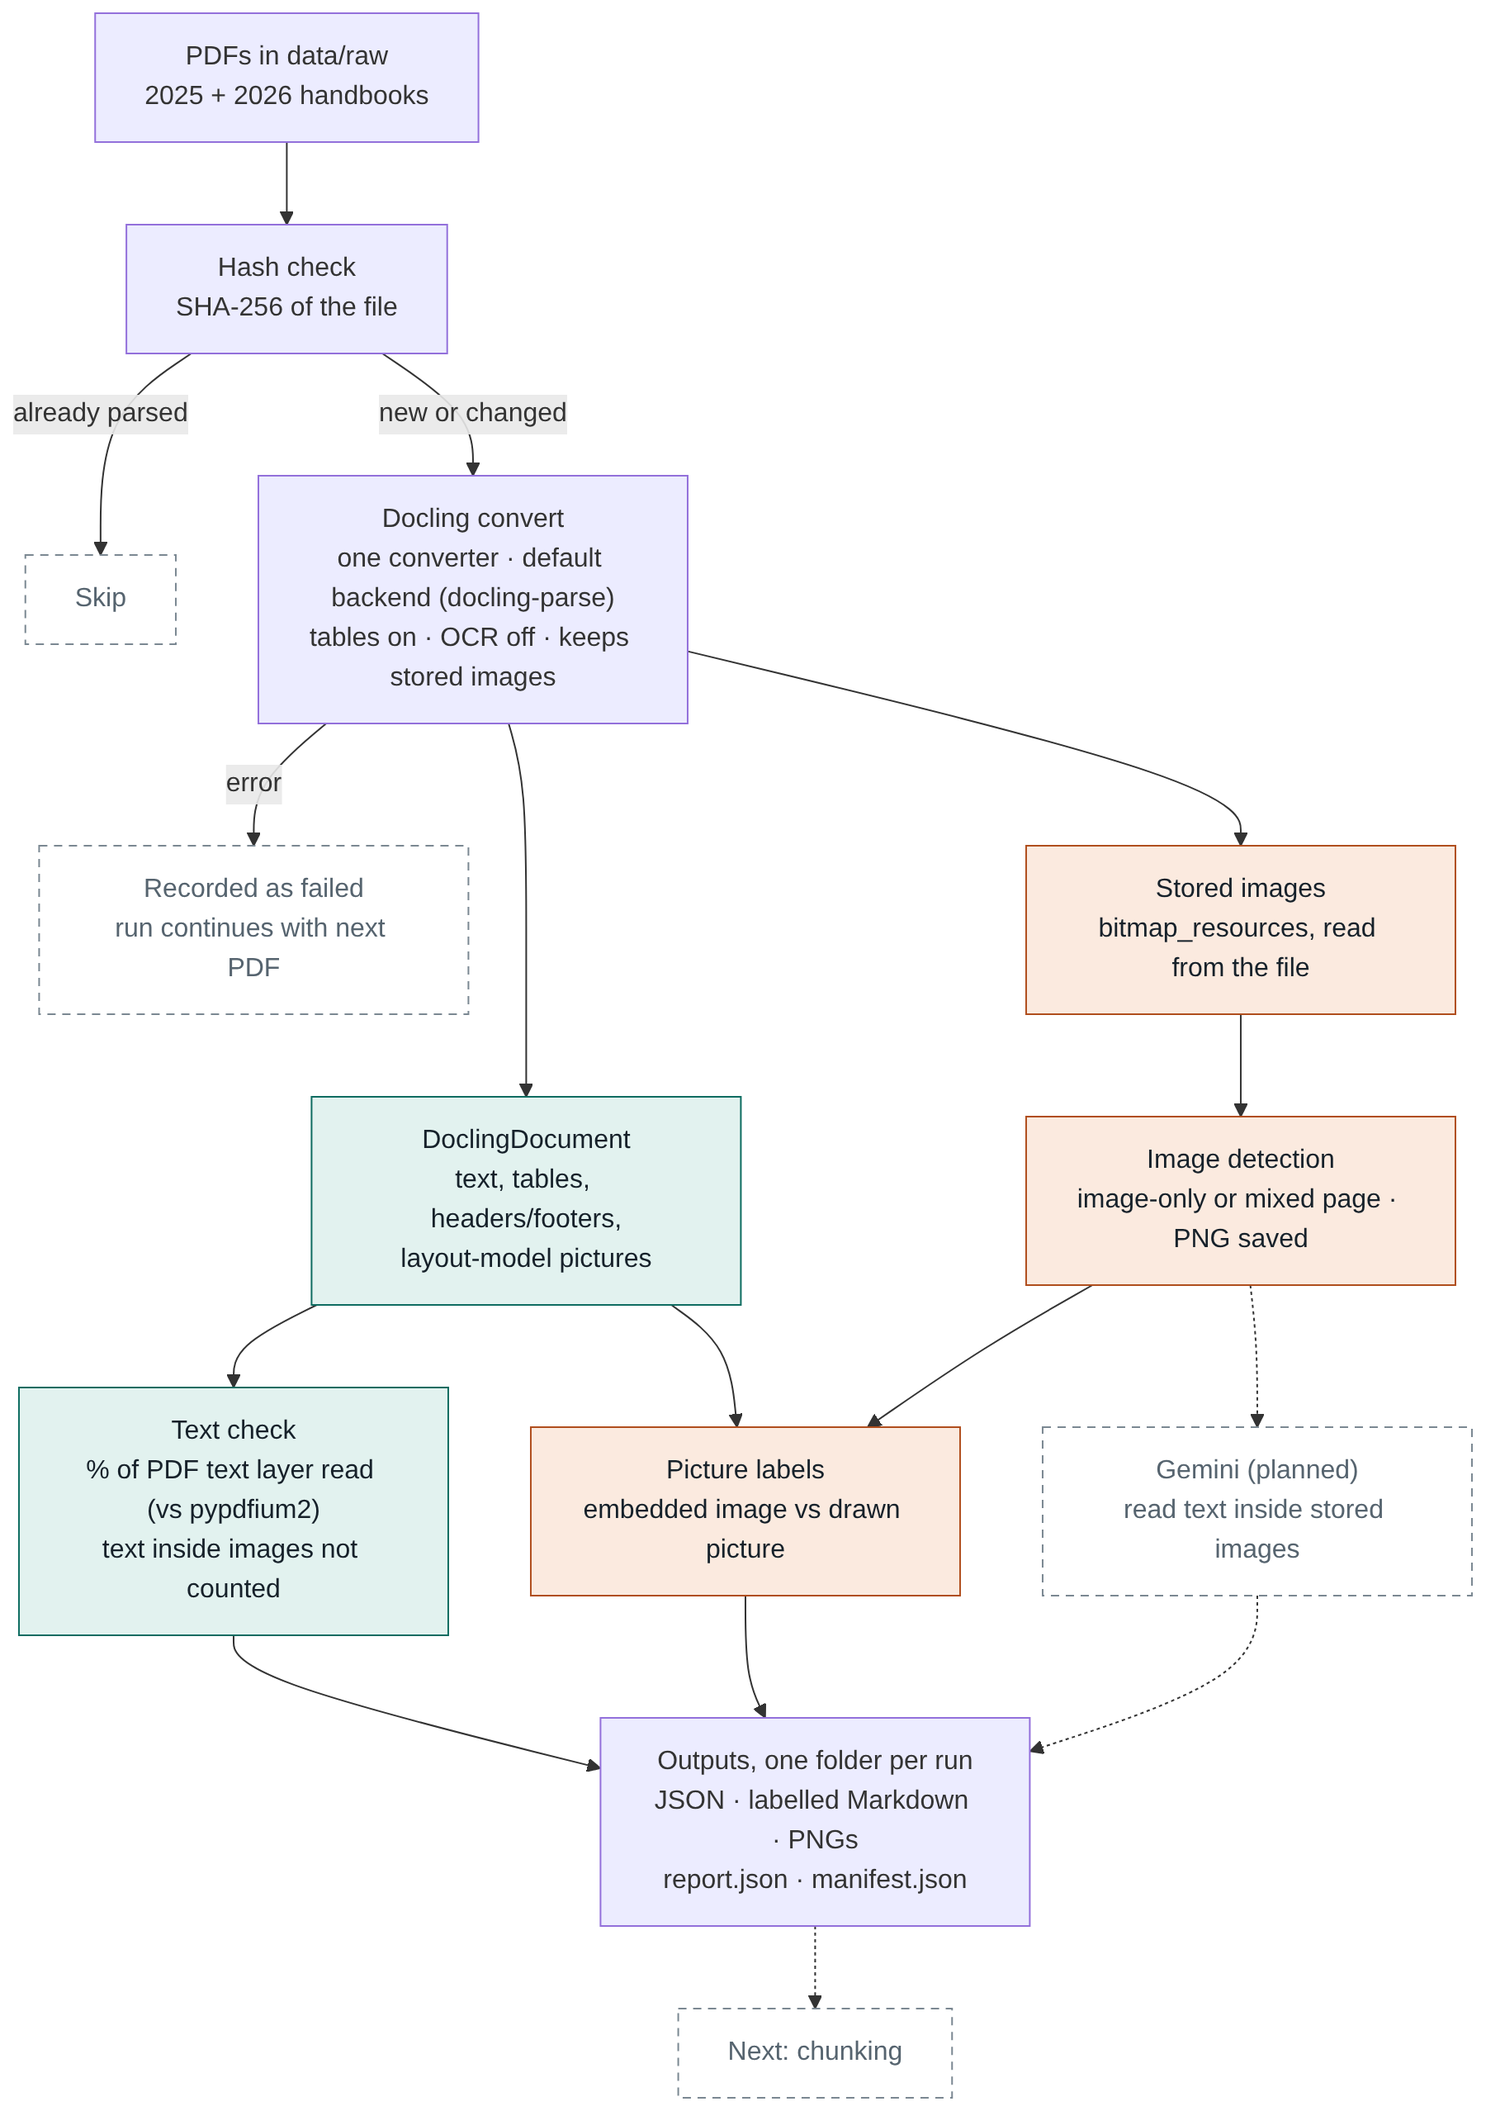
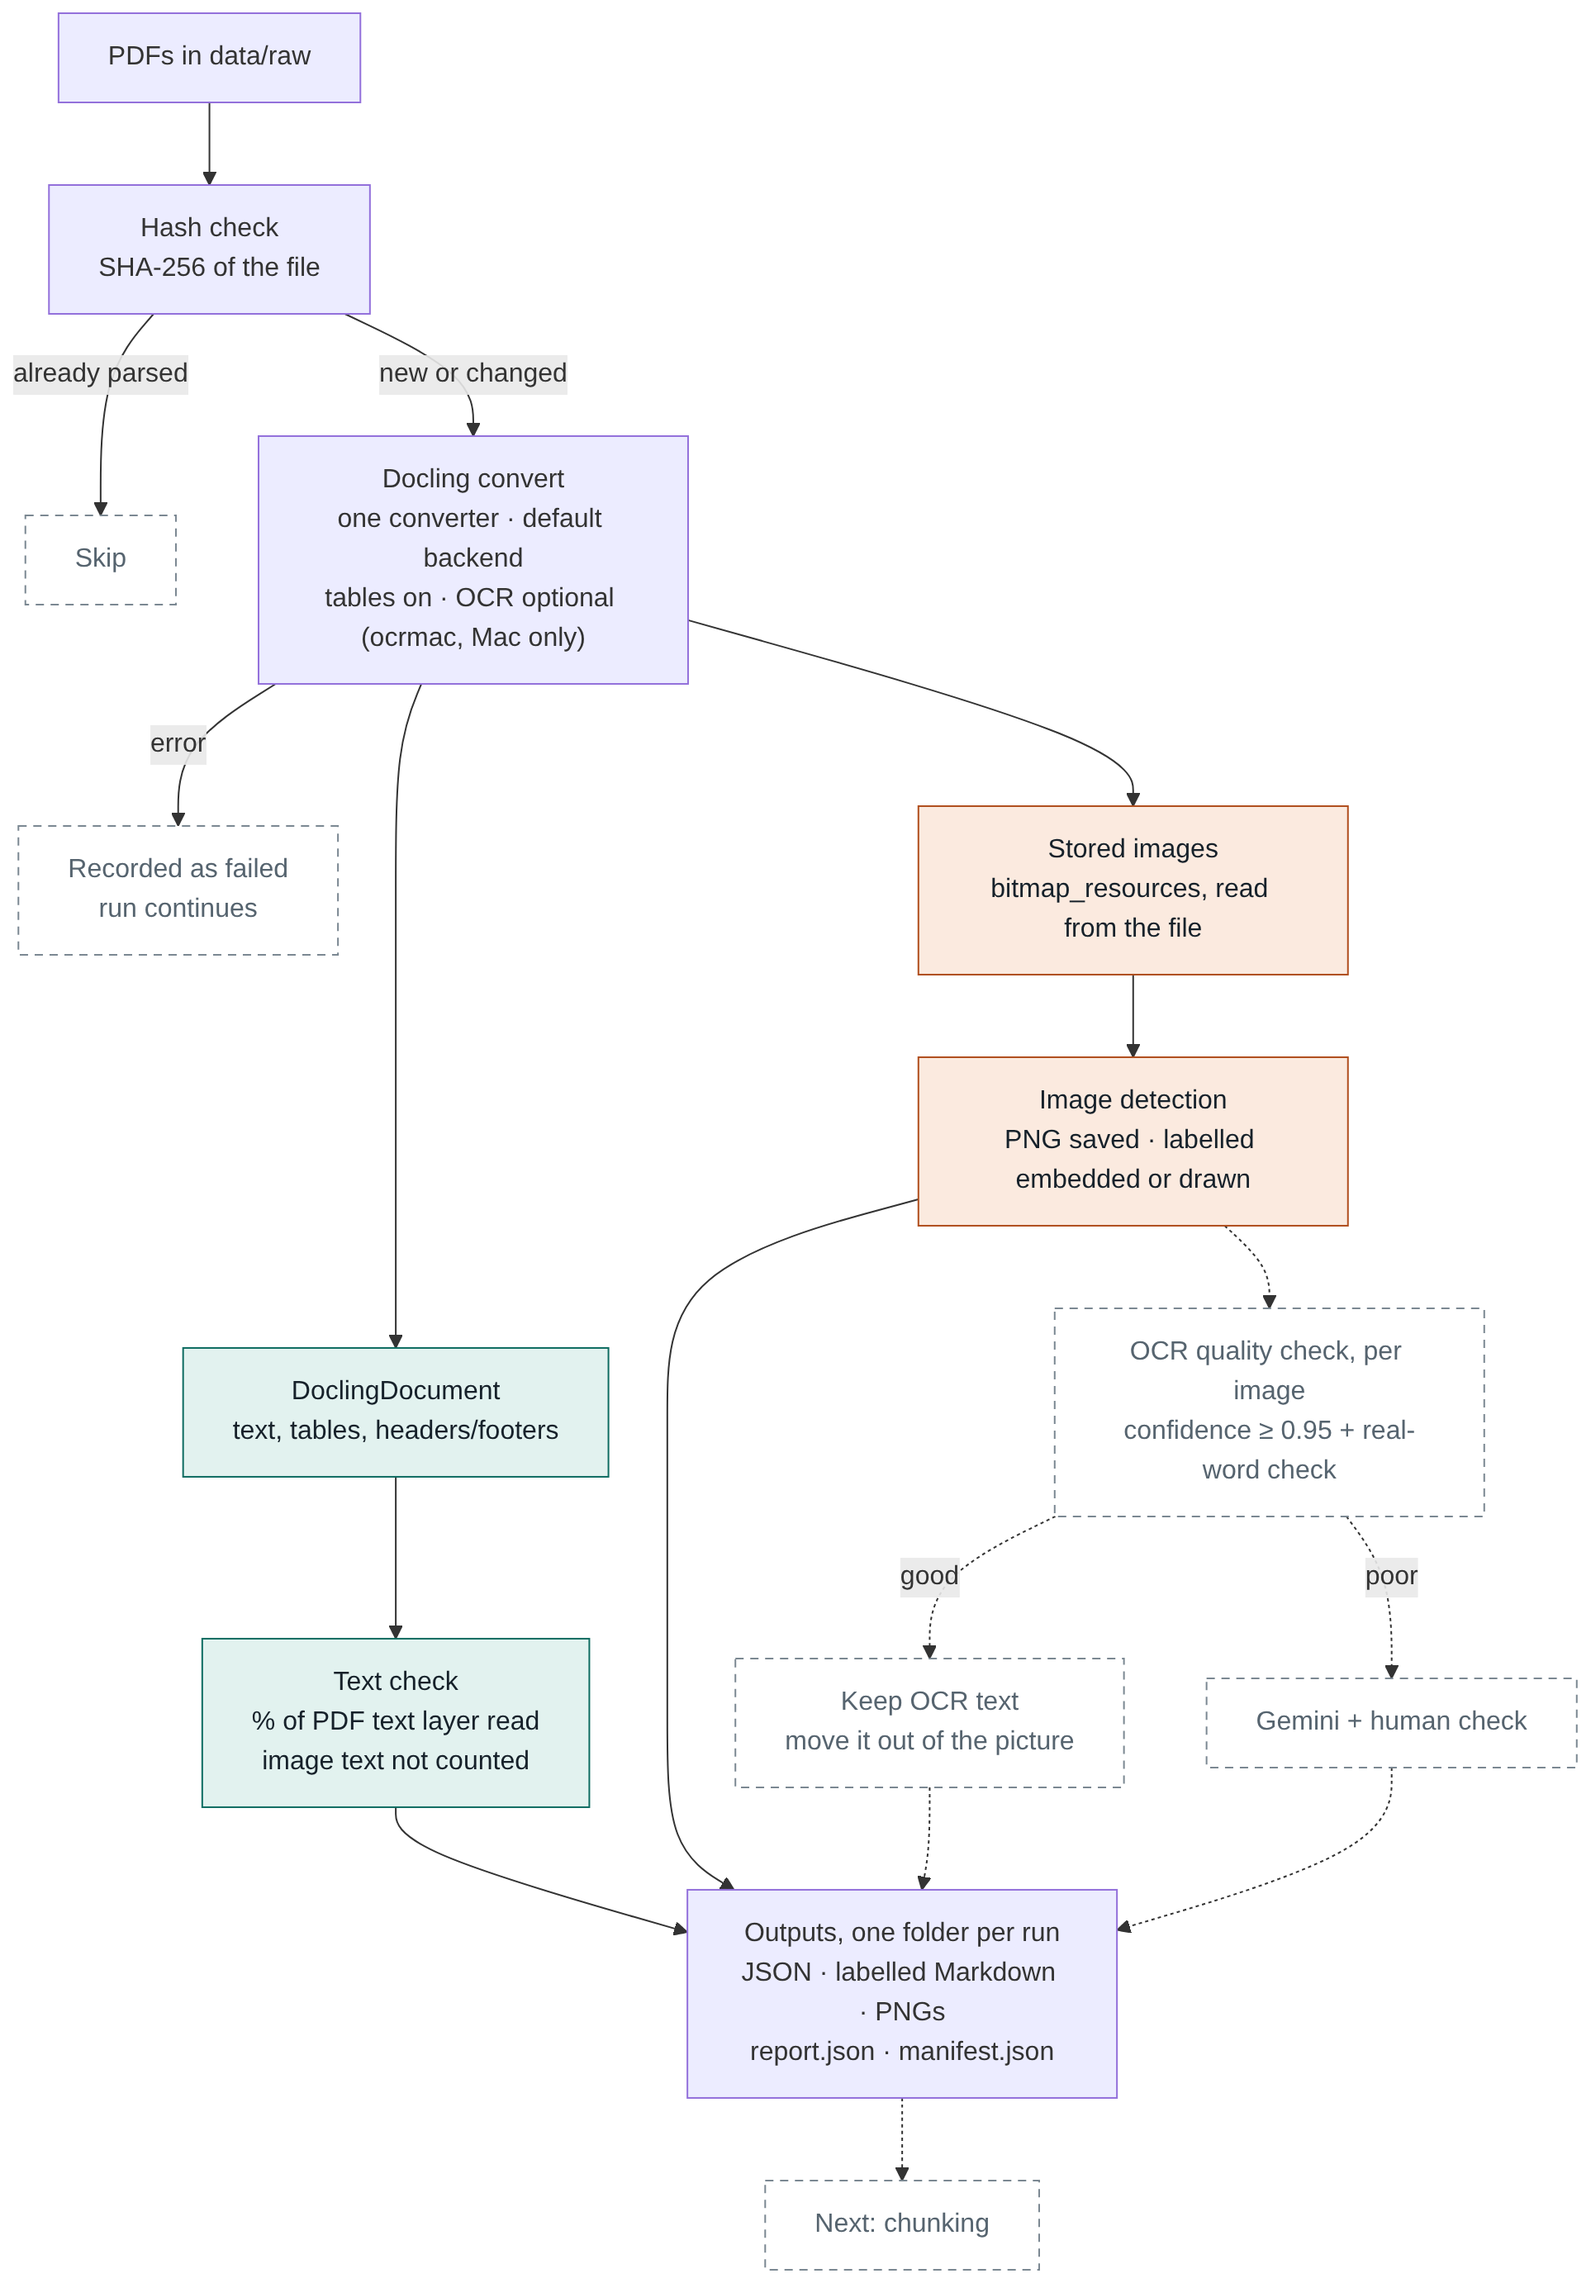
Add OCR confidence findings and updated architecture

diff --git a/ocr_confidence_test.py b/ocr_confidence_test.py
@@ -1,0 +1,21 @@
+from pathlib import Path
+
+from docling.datamodel.base_models import InputFormat
+from docling.datamodel.pipeline_options import OcrMacOptions, PdfPipelineOptions
+from docling.document_converter import DocumentConverter, PdfFormatOption
+
+ROOT = Path(__file__).parent
+options = PdfPipelineOptions(do_ocr=True, ocr_options=OcrMacOptions(), generate_parsed_pages=True)
+converter = DocumentConverter(format_options={InputFormat.PDF: PdfFormatOption(pipeline_options=options)})
+
+for pdf in sorted((ROOT / "data" / "raw").glob("*.pdf")):
+    result = converter.convert(pdf, page_range=(1, 8))
+    print(f"\n=== {pdf.name} ===")
+    for page in result.pages:
+        cells = [c for c in page.parsed_page.textline_cells if c.from_ocr] if page.parsed_page else []
+        if not cells:
+            continue
+        score = result.confidence.pages[page.page_no].ocr_score
+        lowest = sorted(cells, key=lambda c: c.confidence)[:3]
+        print(f"p{page.page_no}: OCR score {score:.2f} from {len(cells)} OCR lines | lowest: "
+              + "; ".join(f"{c.text!r} {c.confidence:.2f}" for c in lowest))

diff --git a/README.md b/README.md
@@ -69,22 +69,24 @@ To read the text inside images with Apple's OCR (macOS only), set `DO_OCR = True
 
 ```mermaid
 flowchart TD
-    A["PDFs in data/raw<br/>2025 + 2026 handbooks"] --> B["Hash check<br/>SHA-256 of the file"]
+    A["PDFs in data/raw"] --> B["Hash check<br/>SHA-256 of the file"]
     B -- "already parsed" --> S["Skip"]
-    B -- "new or changed" --> C["Docling convert<br/>one converter · default backend (docling-parse)<br/>tables on · OCR off · keeps stored images"]
-    C -- error --> X["Recorded as failed<br/>run continues with next PDF"]
+    B -- "new or changed" --> C["Docling convert<br/>one converter · default backend<br/>tables on · OCR optional (ocrmac, Mac only)"]
+    C -- error --> X["Recorded as failed<br/>run continues"]
 
-    C --> D["DoclingDocument<br/>text, tables, headers/footers,<br/>layout-model pictures"]
+    C --> D["DoclingDocument<br/>text, tables, headers/footers"]
     C --> E["Stored images<br/>bitmap_resources, read from the file"]
 
-    D --> F["Text check<br/>% of PDF text layer read (vs pypdfium2)<br/>text inside images not counted"]
-    E --> G["Image detection<br/>image-only or mixed page · PNG saved"]
-    D --> H["Picture labels<br/>embedded image vs drawn picture"]
-    G --> H
-    G -.-> I["Gemini (planned)<br/>read text inside stored images"]
+    D --> F["Text check<br/>% of PDF text layer read<br/>image text not counted"]
+    E --> G["Image detection<br/>PNG saved · labelled embedded or drawn"]
+
+    G -.-> Q["OCR quality check, per image<br/>confidence ≥ 0.95 + real-word check"]
+    Q -. good .-> K["Keep OCR text<br/>move it out of the picture"]
+    Q -. poor .-> I["Gemini + human check"]
 
     F --> O["Outputs, one folder per run<br/>JSON · labelled Markdown · PNGs<br/>report.json · manifest.json"]
-    H --> O
+    G --> O
+    K -.-> O
     I -.-> O
     O -.-> N["Next: chunking"]
 
@@ -92,8 +94,8 @@ flowchart TD
     classDef img fill:#fbeadf,stroke:#b04e1d,color:#16212a
     classDef plan fill:#ffffff,stroke:#7b8892,stroke-dasharray:5 4,color:#56646f
     class D,F text
-    class E,G,H img
-    class I,N,S,X plan
+    class E,G img
+    class Q,K,I,N,S,X plan
 ```
 
 </details>
@@ -105,7 +107,7 @@ flowchart TD
 3. **Text check.** Every word Docling kept (text, list markers, table cells, headers and footers) is compared with the PDF's text layer, read separately with pypdfium2. Gives a percentage and flags pages where more than 5% (and at least 3 words) are missing. Text inside images is not in the text layer, so it is not counted.
 4. **Image detection.** For each image stored in the PDF: page, position, share of the page, pixel size, and page type (`image_only` if the image covers more than 30% of the page and the page has fewer than 30 body words, otherwise `mixed`). Each image is saved as a PNG.
 5. **Picture labels.** Docling's layout model also marks areas that look like pictures. A picture that sits inside a stored image is labelled `embedded image`; anything else is labelled `drawn picture`.
-6. **Gemini (planned).** `read_image_with_gemini()` is an empty placeholder for reading the text inside stored images.
+6. **OCR quality check and Gemini (planned).** With OCR on, each image's OCR text would be checked (confidence of at least 0.95 plus a real-word check). Good text is kept and moved out of the picture; poor text goes to Gemini with a human check. `read_image_with_gemini()` is an empty placeholder for that step.
 7. **Outputs.** Written to the run folder (see above).
 
 ### Settings
@@ -156,6 +158,14 @@ flowchart TD
 | SmolVLM (picture describer) | 2025: described the icons only. 2026: 13 of 20 bullets, all under one heading, reworded, one invented line | Yes |
 | RapidOCR | Crashed Python on macOS (segmentation fault in its image-resize step) | — |
 
+### OCR confidence (`ocr_confidence_test.py`)
+
+| Image type (test PDFs) | OCR confidence, page average |
+|---|---|
+| Text-based image (Graduate Attributes) | 1.00, every line, both editions |
+| Logos | 0.90–0.91 (real logo text 1.00, junk lines 0.30) |
+| Dense, table-like image (academic calendar) | 0.63–0.86 |
+
 ## Findings
 
 **Docling can tell which images are stored in the PDF.** Read from the file (`bitmap_resources`, or the native pipeline), it finds exactly 3 stored images per edition on pp. 6, 7 and 8, with the same pages and pixel sizes as `pdfimages`. This does not depend on any AI model.
@@ -165,6 +175,10 @@ flowchart TD
 **Its built-in OCR can read them, at least on macOS.** With ocrmac (Apple's OCR), Docling read the p. 6 image text almost perfectly in both editions: about 208 words, headings and bullet points in order, one error. Running OCR on the whole file changed none of the normal text. The academic calendar stays unreadable even with ocrmac, and the cover logos add some junk. An earlier OCR run with a different engine on pp. 7–8 also produced mostly noise. Granite and GLM-OCR returned nothing there; LightOnOCR returned text that has not been checked yet.
 
 **But Docling stores OCR text inside the picture.** Its standard exports (Markdown, and the default chunker) skip picture contents, so in 2026 only 1 of the 208 words reaches the chunks. In 2025 about 190 words get through, but only because the layout model split the image into small icons and the text ended up outside them. The text has to be moved out of the picture, or into the picture's description, which does reach the chunks. This is left for the chunking stage.
+
+**OCR confidence is a useful first filter, but not enough on its own.** Docling keeps a confidence score per OCR line (`result.pages[...].parsed_page.textline_cells`) and an average per page (`result.confidence.pages[n].ocr_score`). On the test PDFs, the well-read image scored 1.00 and the badly read ones scored lower, so a cut-off around 0.95 separated them. But some clearly wrong lines still scored 1.00, and ocrmac's scores are coarse (0.3 / 0.5 / 1.0), so the cut-off is not proven beyond these PDFs. A second check, such as whether the OCR words are real words, is needed. The scores are not saved in the JSON, and docling-serve only returns one OCR score for the whole document.
+
+**Whether an image can be read depends on the image, not the page.** OCR runs on each image area separately, so a dense table-like image fails the same way whether or not the page also has normal text. Quality should be judged per image, not by page type.
 
 **Its built-in picture describer is not reliable.** SmolVLM's output reaches the chunks, but on 2026 p. 6 it kept 13 of 20 bullet points, put them all under one heading, reworded several and added a line that is not in the image. On 2025 it only described the icons.
 
@@ -194,6 +208,8 @@ flowchart TD
 ## Next steps
 
 - Test an OCR engine on Linux, where docling-serve will run.
+- Add a real-word check next to OCR confidence, and record confidence per image in `report.json`.
+- Route only images that fail these checks to Gemini, with a human check.
 - Try Gemini on the stored p. 6 image and compare it with the OCR text, as a comparison and as the fallback where OCR is not available.
 - Fix the image-only rule so it counts only the PDF's own text layer.
 - Decide whether "embedded images" means every stored image or only ones that carry information.
